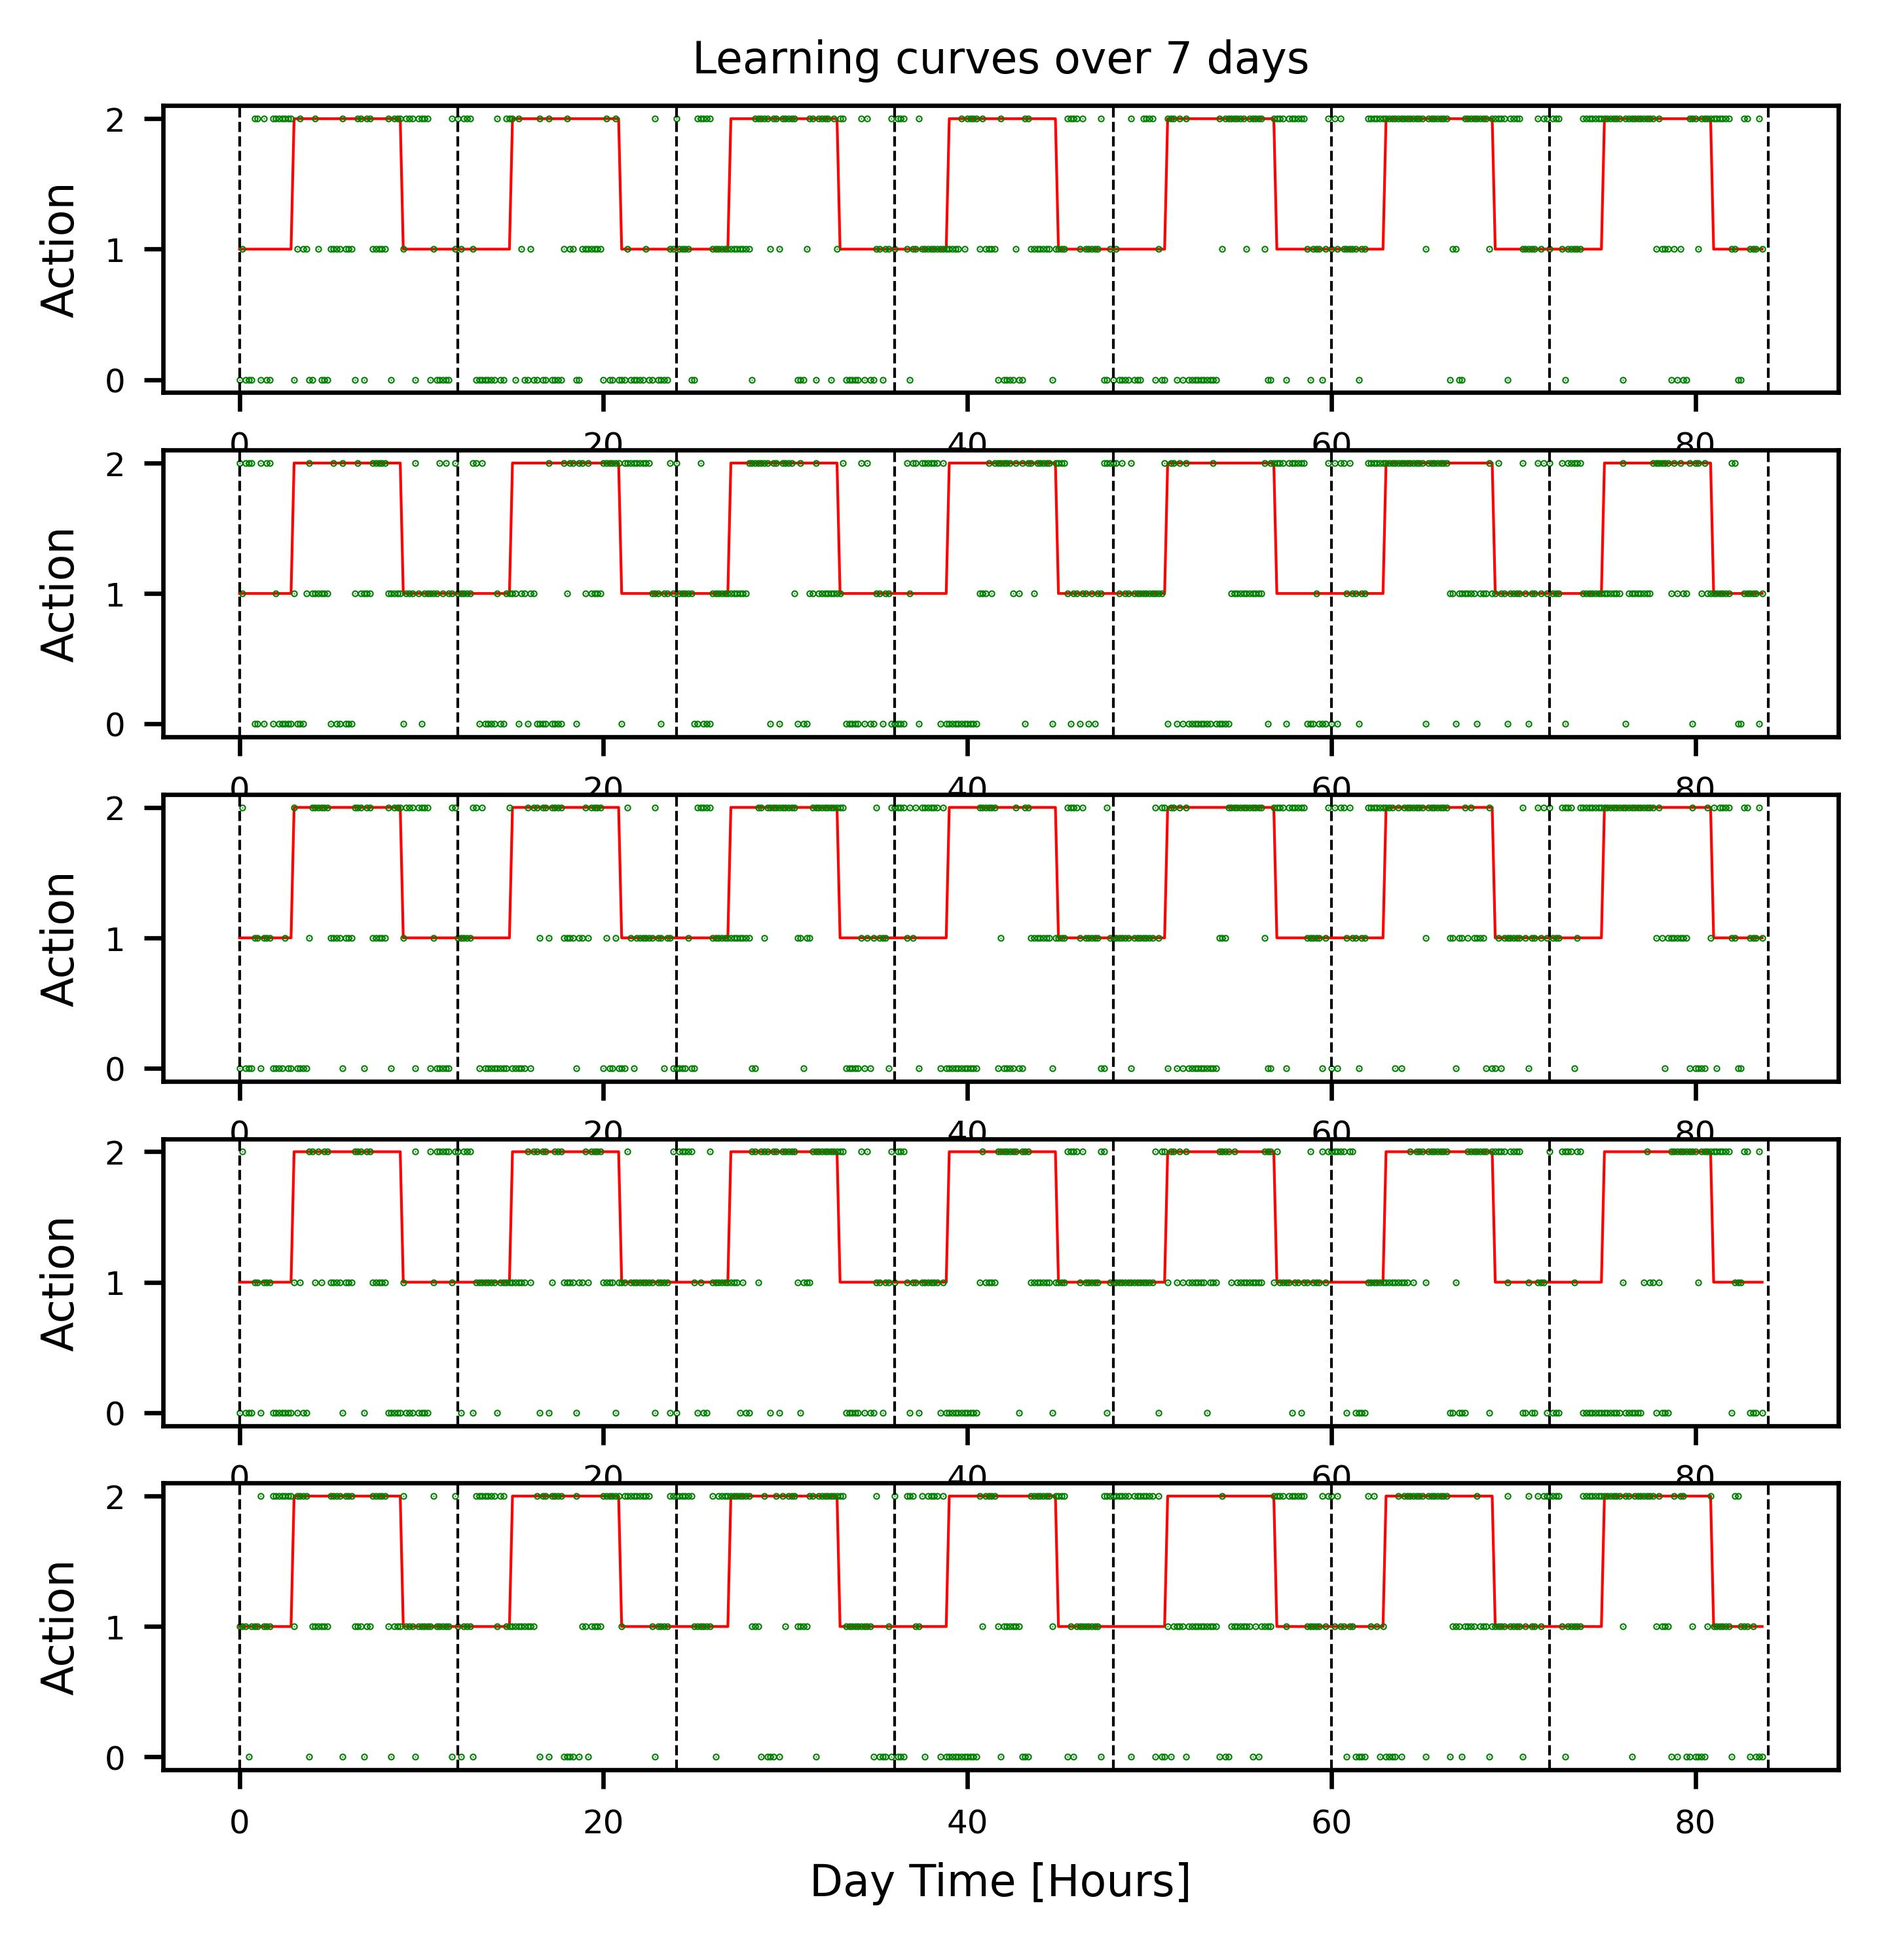
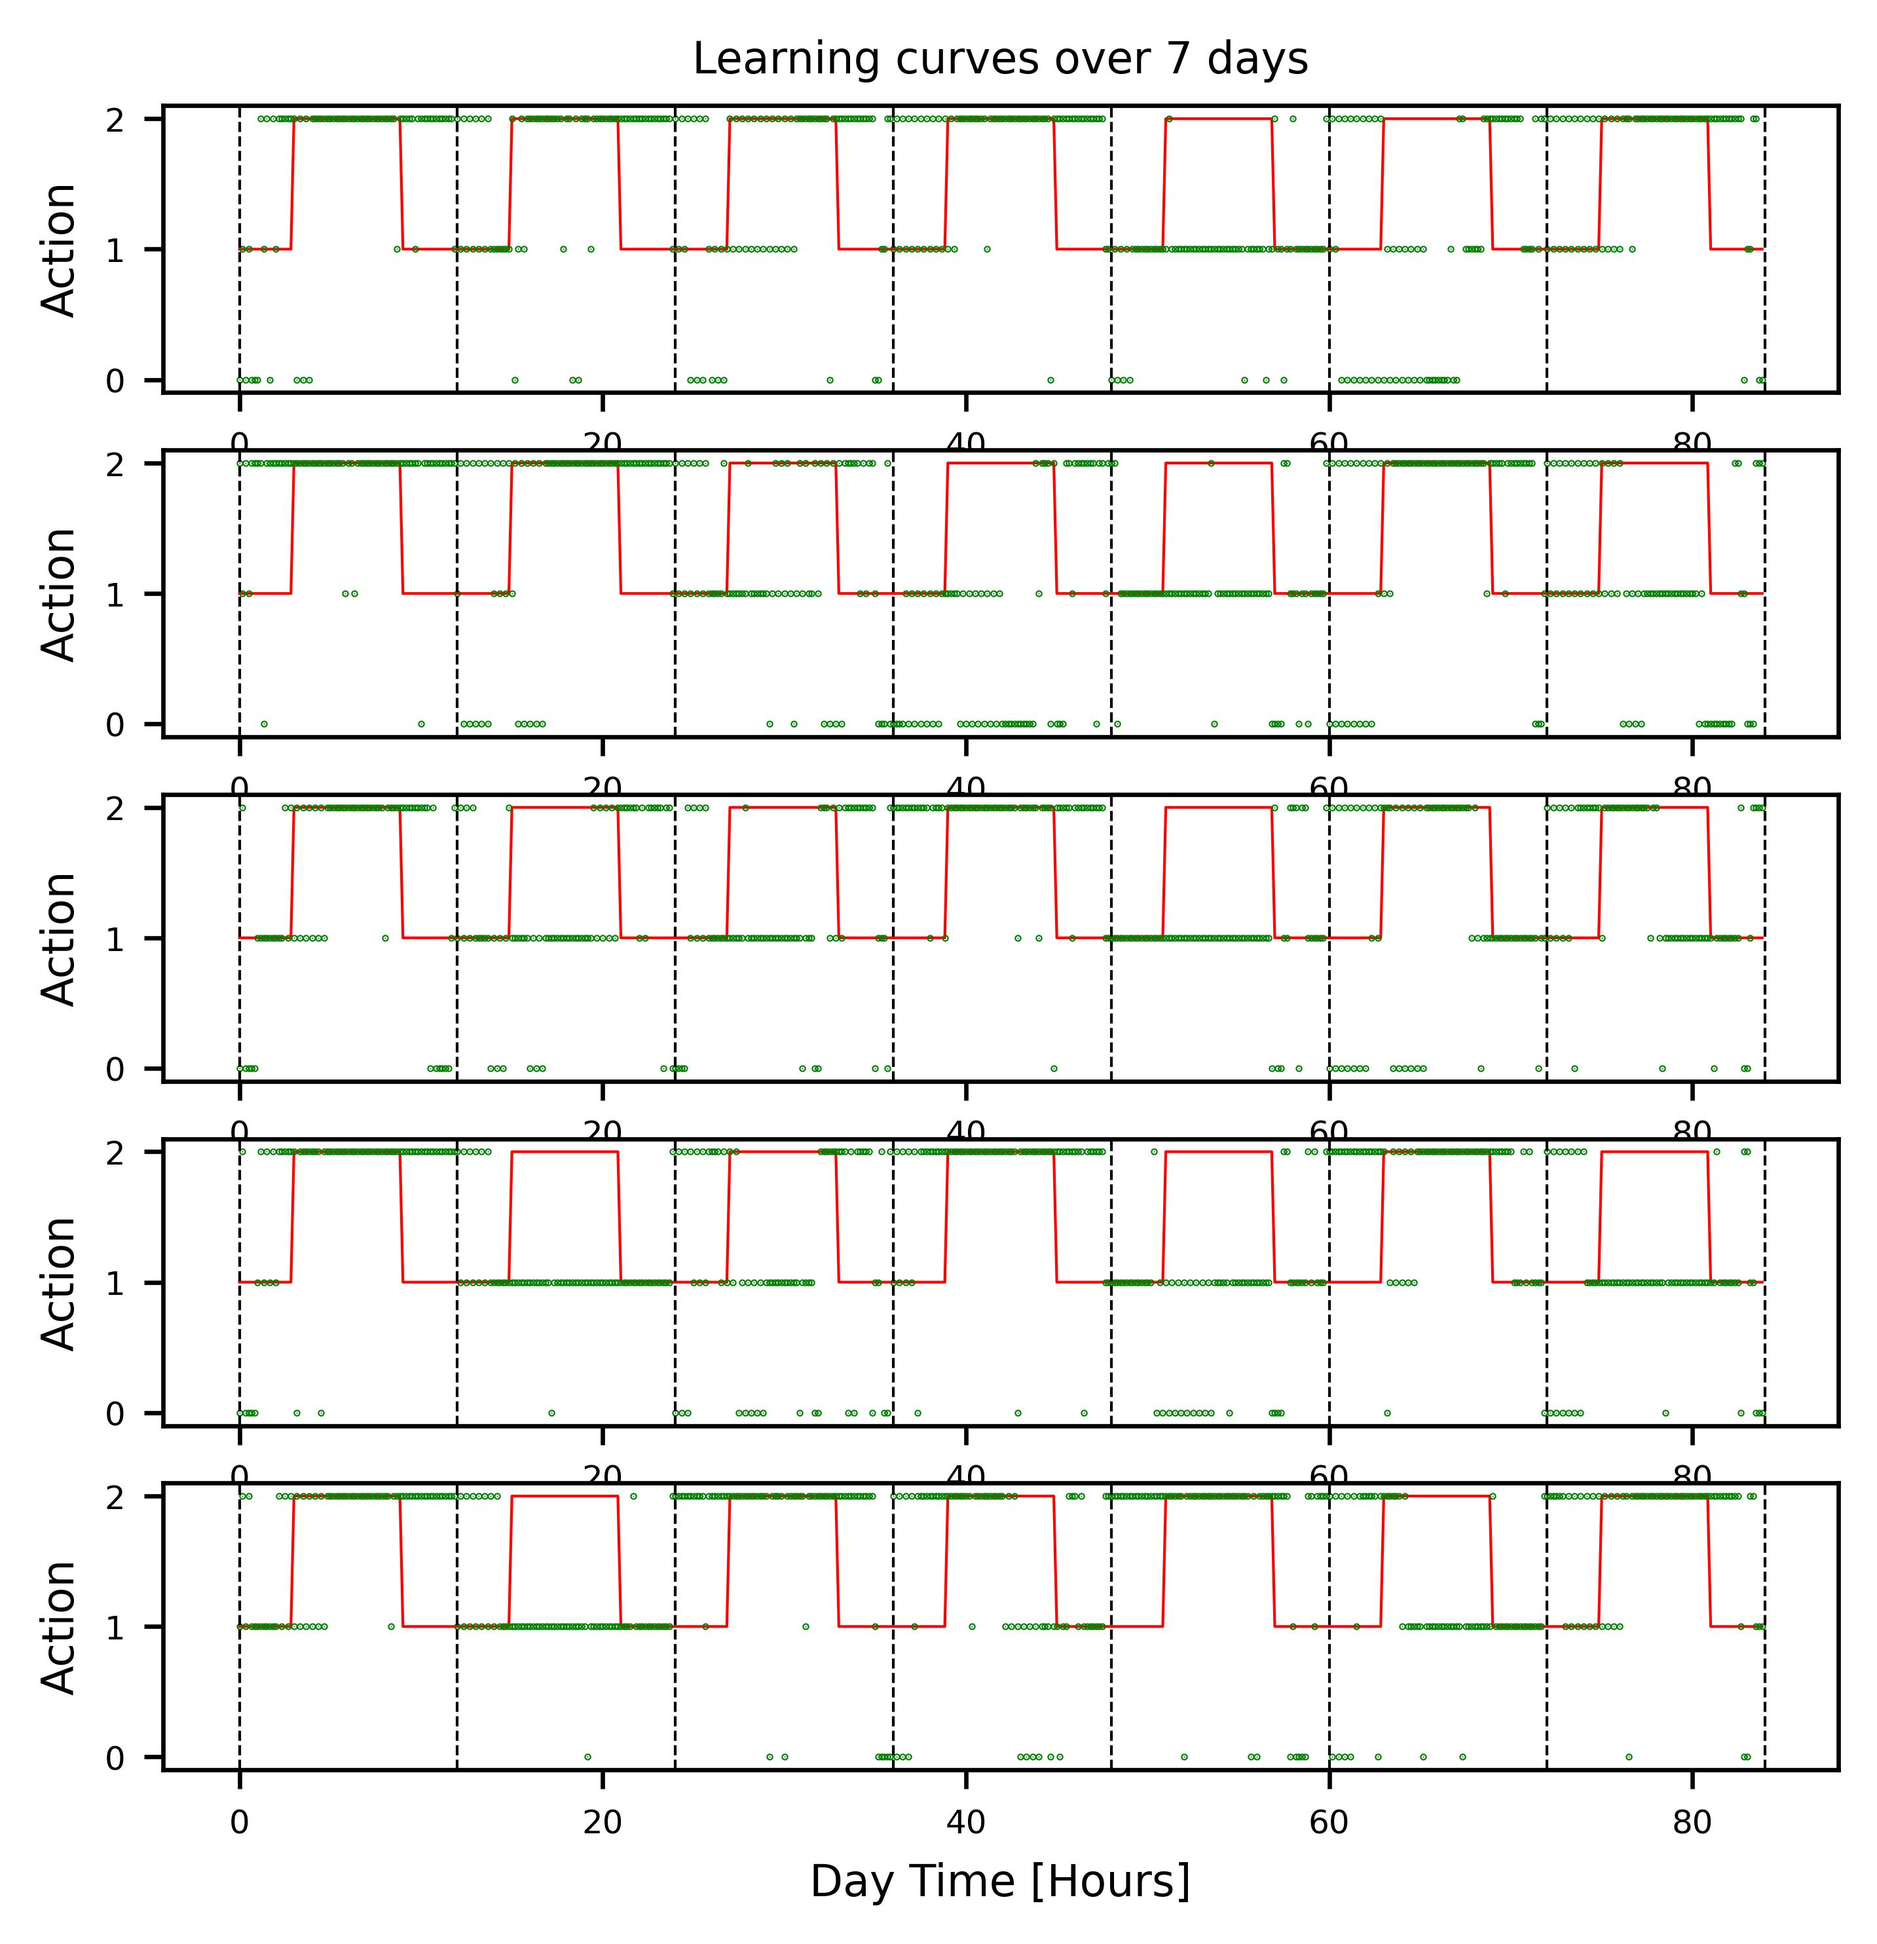
fixed plotting script

diff --git a/experiments/offline/E3/P1/learning_curves.py b/experiments/offline/E3/P1/learning_curves.py
@@ -20,9 +20,7 @@ setDefaultConference('neurips')
 
 COLORS = {'tc-ESARSA': 'green'}
 
-total_days = 10   # for hypersweep, can be shorter than the run
-steps_per_day = 72
-
+total_days = 14   # match the config file
 optimal_action = np.tile(np.hstack([np.ones(3*6), 2*np.ones(6*6), np.ones(3*6)]), total_days)[:-1]
 
 def main():
@@ -45,17 +43,15 @@ def main():
     )
  
     assert df is not None
-    
-    add_finite_horizon_return(df, total_days)
-        
+            
     exp = results.get_any_exp()
 
     for env, env_df in split_over_column(df, col='environment'):
         f, ax = plt.subplots(5, 1)
-        for alg, sub_df in split_over_column(env_df, col='algorithm'):
+        for alg, sub_df in split_over_column(env_df, col='algorithm'):           
             report = Hypers.select_best_hypers(
                 sub_df,
-                metric='finite_horizon_return', 
+                metric='return', 
                 prefer=Hypers.Preference.high,
                 time_summary=TimeSummary.sum,
                 statistic=Statistic.mean,
@@ -66,8 +62,8 @@ def main():
             Hypers.pretty_print(report)
             
             xs_a, ys_a = extract_learning_curves(sub_df, report.best_configuration, metric='action', interpolation=None)
-            xs_a = np.asarray(xs_a)[:,:total_days*steps_per_day-1]
-            ys_a = np.asarray(ys_a)[:,:total_days*steps_per_day-1]
+            xs_a = np.asarray(xs_a)
+            ys_a = np.asarray(ys_a)
             
             res = curve_percentile_bootstrap_ci(
                 rng=np.random.default_rng(0),
@@ -79,7 +75,6 @@ def main():
                 ax[i].plot(rescale_time(xs_a[0], 1), optimal_action, color='r', label='optimal policy', linewidth=0.5)
                 ax[i].plot(rescale_time(xs_a[0], 1), ys_a[i], 'g.', label=f'seed{i+1}', markersize=0.5)
                 ax[i].set_ylabel('Action')       
-                #ax[i].set_xticks([])    
                 for j in range(total_days + 1):
                     ax[i].axvline(x = 12*j, color='k', linestyle='--', linewidth=0.5)
             
@@ -92,13 +87,6 @@ def main():
 def rescale_time(x, stride):
     base_step = 10/60           # spreadsheet time step is 10 minutes
     return x*base_step*stride   # x-values in units of hours
-
-def add_finite_horizon_return(df, day):
-    df['finite_horizon_return'] = 0.0
-    horizon = steps_per_day*day - 1    
-    if horizon in df['steps'].values:
-        rewards_sum = df[df['steps'] <= horizon]['reward'].sum()
-        df.loc[df['steps'] == horizon, 'finite_horizon_return'] = rewards_sum
 
 if __name__ == "__main__":
     main()

diff --git a/experiments/offline/E3/E3-log.md b/experiments/offline/E3/E3-log.md
@@ -14,14 +14,28 @@
 
 ##  Phase P1
 ### Objectives:
-- Retrain TC ESARSA in the drastically updated PlantSimulator (smooth ob, horizon countdown, 3 actions). 
+- Retrain TC ESARSA in the drastically updated PlantSimulator (smooth ob for both state and reward, horizon countdown, 3 actions). 
 ### Methods: 
 - Use TC because Adam suggested discretized observations
 - Pretty wide hyper sweeps
 ### Observations: 
-- TC ESARSA did not learn. 
+- Agent tends to stick to one action, either dim or bright. In the second week, some seeds even try to dim during twilight!
+- best config
+```
+representation.tiles:            4
+environment.last_day:            14
+n_step:                          2
+environment.lag:                 1
+representation.tilings:          16
+environment.trace_decay_rate:    0.9
+environment.num_plants:          49
+environment.stride:              1
+epsilon:                         0.25
+alpha:                           0.125
+```
 ### Conclusions & Outlooks: 
-- How to make it work? Agent wise, we should try larger n-steps. Smaller epsilon range. and sweep more learning rate. Environment wise, try different trace decay rates like [0, 0.5, 0.9]
+- The agent seems to prefer larger exploration! 
+- (The following was concluded based on incorrect data analysis) Agent wise, we should try larger n-steps. Smaller epsilon range. and sweep more learning rate. Environment wise, try different trace decay rates like [0, 0.5, 0.9]
 
 ##  Phase P2
 ### Objectives:
@@ -32,28 +46,26 @@
 - Use a much finer tile coding so that the area spans ~25 tc grid points over one day.
 - different set of hyper sweeps from P1 (check config)
 ### Observations: 
-- It's kind of working! Much better than P1
+- It changes up actions more often than P1. Still avoiding off. 
 - best config
 ```
-representation.tilings:          256
-epsilon:                         0.05
-representation.tiles:            8
-environment.stride:              1
-n_step:                          1
-environment.trace_decay_rate:    0.0
 environment.num_plants:          49
-environment.last_day:            7
+environment.trace_decay_rate:    0.9
+representation.tiles:            8
 environment.lag:                 1
 alpha:                           0.003
+environment.last_day:            7
+representation.tilings:          256
+environment.stride:              1
+n_step:                          1
+epsilon:                         0.1
 ```
 - n_step = 1 being best makes sense in a simulator because plant responds proportionally to lighting change immediately. Real plants might respond in a more complicated way, so it may be more benefitial to use larger n-step. Though it's unclear whether we should use small n_step still (to only capture plant's immediate response to lighting change), or large ones to hopefully capture overnight growth.
-- note that small alpha and epsilon are prefered
-- large trace_decay_rate makes really smooth action history! Though Oliver and I have decided to not use smooth areas in the reward, so this may change. 
 ### Conclusions & Outlooks: 
 - n_step needs to be small in the simulator, but not necessarily in real experiment
-- epsilon and alpha both needs to be small, but this could be due to small, discrete action space, 
 - trace_decay_rate will affect things differently in the next updated plantsimulator
-- The tiles and tilings seem to be sensible choices. 
+- Oliver and I have decided to not use smooth areas in the reward from now on.
+- (This was based on incorrect data analysis) epsilon and alpha both needs to be small.
 
 ##  Phase P3
 ### Objectives:
@@ -63,6 +75,24 @@ alpha:                           0.003
 - lagged areas can be safely removed from the state if lag = 1
 - Reward = change in average area over 1 step, multiplied by 1000 to scale up (P2 used smooth average area)
 ### Observations: 
--
+- best config
+```
+environment.trace_decay_rate:    0.9
+environment.last_day:            7
+environment.lag:                 1
+representation.tilings:          256
+environment.num_plants:          48
+environment.type:                off_low_high
+representation.tiles:            8
+environment.stride:              1
+epsilon:                         0.05
+n_step:                          1
+alpha:                           0.0001
+```
+- More "off" actions than P2, but the last two days look promising.
+
+Just realized that data analysis for P1 and P2 were wrong. After fixing them, I noticed 
+- finer tilings didn't cause the "spotty" action history in P3 because P2 shows lots repeated actions. It was likely due to computing reward with unsmoothed areas.
 ### Conclusions & Outlooks: 
-- 
+- How to improve upon this?
+
